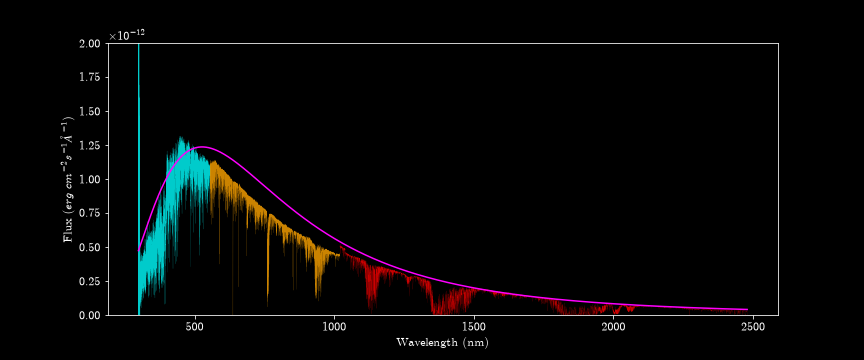
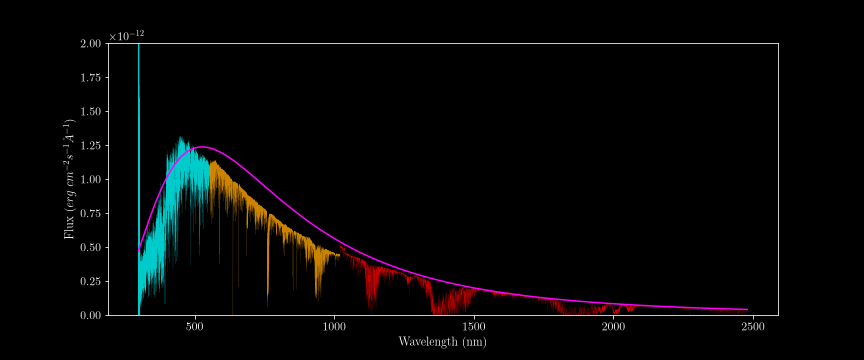
font + phot

diff --git a/HIP_84543_phot.py b/HIP_84543_phot.py
@@ -39,11 +39,12 @@ ax2.legend()
 star = df0.loc[df0['Name'] == 'HIP 84543'].iloc[0]
 B_mag = star['BTmag']
 V_mag = star['VTmag']
-K_mag = star['Ksmag']
+R_mag = star['Rmag']
 
+print('Catalogue:')
 print(f'BTmag: {B_mag}')
 print(f'VTmag: {V_mag}')
-print(f'Ksmag: {K_mag}')
+print(f'Rmag: {R_mag}')
 
 T_lam = transmit_f[0] + transmit_f[1] + transmit_f[2] 
 
@@ -59,15 +60,16 @@ for j in range(len(wave_binned) - 1):
 wave_binned = wave_binned[:-1]
 
 
-num = np.sum(flux_binned * T_lam)
-den = np.sum(T_lam)
-
-
-mag = -2.5 * np.log10(num)
+magB = -2.5 * np.log10((np.sum(flux_binned * transmit_f[0])/np.sum(transmit_f[0])) / 632.5e-11)
+magV = -2.5 * np.log10((np.sum(flux_binned * transmit_f[1])/np.sum(transmit_f[1])) / 363.1e-11)
+magR = -2.5 * np.log10((np.sum(flux_binned * transmit_f[2])/np.sum(transmit_f[2])) / 217.7e-11)
   
+print('Calculated:')
+print(f'Bmag: {magB}')
+print(f'Vmag: {magV}')
+print(f'Rmag: {magR}')
 
 plt.figure(figsize=(12,5))
-plt.plot(wave_binned,flux_binned, c = 'cyan', lw = 0.7)
 plt.plot(wave,flux, c = 'red', lw = 0.1, alpha = 0.5)
 
 plt.ylim(0,1.5e-12)
@@ -75,5 +77,28 @@ plt.ylim(0,1.5e-12)
 plt.xlim(0,2500)
 plt.xlabel(r'Wavelength (nm)')
 plt.ylabel(r'Flux ($erg\ cm^{-2} s^{-1} \AA^{-1}$)')
+
+S = 10**(-0.4 * (np.abs(B_mag - magB)))
+flux_phot = flux * S
+flux_binned_phot = flux_binned * S
+
+magB_scaled = -2.5 * np.log10((np.sum(flux_binned_phot * transmit_f[0])/np.sum(transmit_f[0])) / 632.5e-11)
+magV_scaled = -2.5 * np.log10((np.sum(flux_binned_phot * transmit_f[1])/np.sum(transmit_f[1])) / 363.1e-11)
+magR_scaled = -2.5 * np.log10((np.sum(flux_binned_phot * transmit_f[2])/np.sum(transmit_f[2])) / 217.7e-11)
+print('Scaled by B:')
+print(f'Bmag: {magB_scaled}')
+print(f'Vmag: {magV_scaled}')
+print(f'Rmag: {magR_scaled}')
+
+plt.figure(figsize=(12,5))
+plt.plot(wave,flux_phot, c = 'red', lw = 0.1, alpha = 0.5)
+
+plt.ylim(0,1.5e-12)
+#ax1.axvline(364.7, linewidth = 0.5, c = 'r')
+plt.xlim(0,2500)
+plt.xlabel(r'Wavelength (nm)')
+plt.ylabel(r'Flux ($erg\ cm^{-2} s^{-1} \AA^{-1}$)')
+
+
 
 plt.show()

diff --git a/HIP_84543_spectra_plots.py b/HIP_84543_spectra_plots.py
@@ -1,6 +1,8 @@
 """
 Plots for HIP_84543
 """
+import os
+os.environ['PATH'] += os.pathsep + r'C:\Users\Owner\AppData\Local\Programs\MiKTeX\miktex\bin\x64' 
 import matplotlib.pyplot as plt
 import numpy as np
 from pathlib import Path
@@ -13,9 +15,9 @@ def background():
     
 background()  
 plt.rcParams.update({
+    'text.usetex' : True,
     'font.family' : 'serif',
-    'font.serif' : 'cmr10',
-    'mathtext.fontset' : 'cm',
+    'font.serif' : ['Computer Modern Roman'],
     'axes.formatter.use_mathtext' : True,
     'axes.unicode_minus' : False,
     'font.size' : 12 })

diff --git a/HIP_84543_spectra.py b/HIP_84543_spectra.py
@@ -90,9 +90,9 @@ lam = np.loadtxt("OneDrive - Maynooth University/Project/HIP_84543/bosz2024_wave
 
 plt.style.use('dark_background')
 plt.rcParams.update({
+    'text.usetex' : True,
     'font.family' : 'serif',
     'font.serif' : 'cmr10',
-    'mathtext.fontset' : 'cm',
     'axes.formatter.use_mathtext' : True,
     'axes.unicode_minus' : False,
     'font.size' : 12 })
